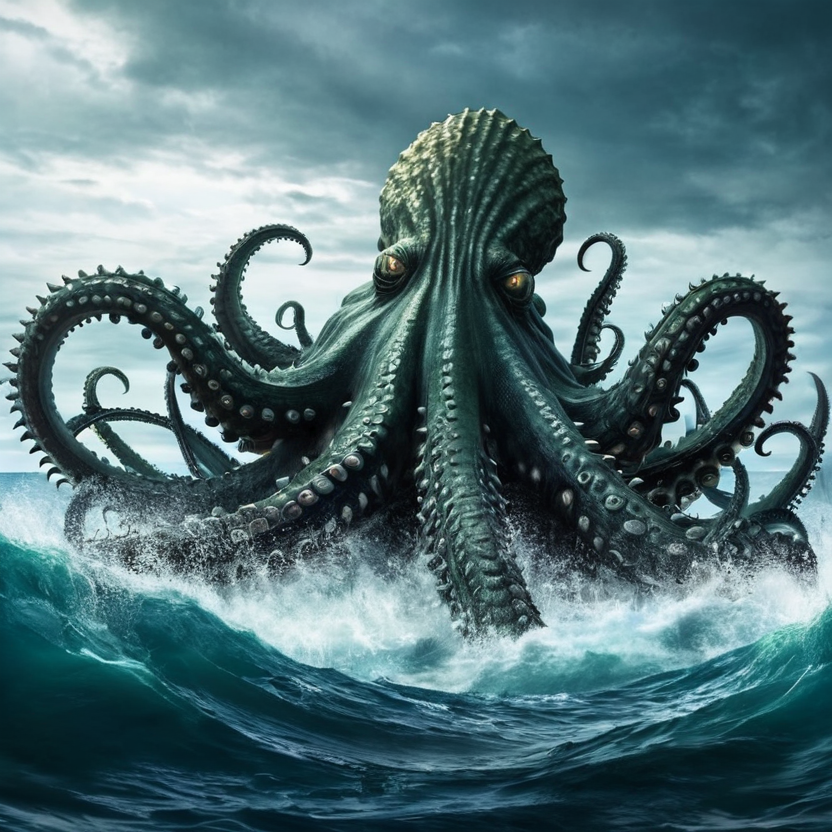
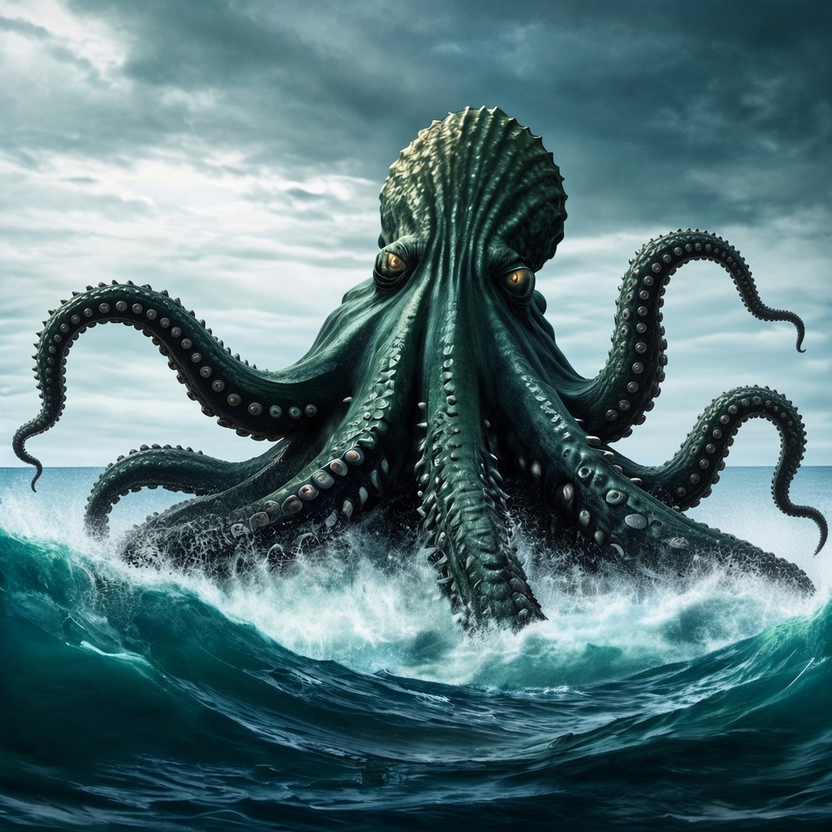
Fix kraken tentacle loops on card and splash slide art.

diff --git a/src/components/SplashMenu.tsx b/src/components/SplashMenu.tsx
@@ -24,7 +24,7 @@ import type { OwnedState } from "../game/types";
 const SPLASH_SLIDES = [
   "/splash-elements-v2.jpg?v=7",
   "/splash-slides/valkyrie-hi.png?v=2",
-  "/splash-slides/kraken-hi.png?v=2",
+  "/splash-slides/kraken-hi.png?v=3",
   "/splash-slides/vampire-hi.png?v=2",
   "/splash-slides/ent-hi.png?v=2",
   "/splash-slides/inferno-hi.png?v=2",
